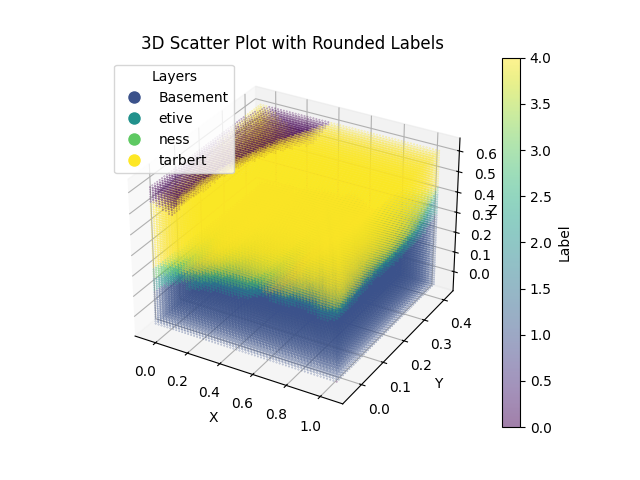
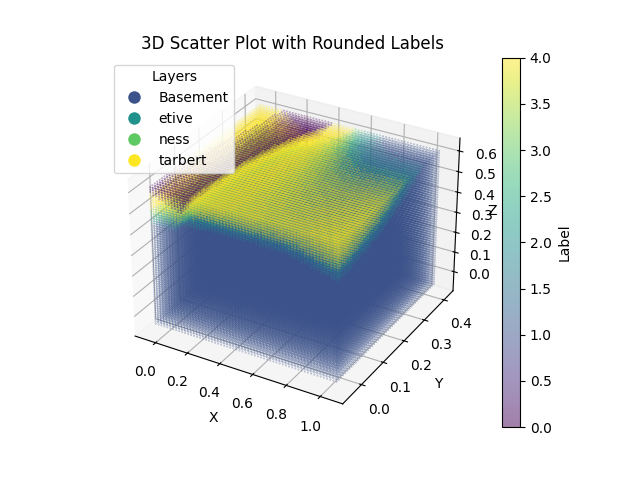
corrected_scalar_contours

Changed region(s): [[0.2188, 0.2188, 0.6875, 0.6562]]

diff --git a/Shubham Master's thesis/4- New blockwise fault/video_tutorial_model_2_faults.py b/Shubham Master's thesis/4- New blockwise fault/video_tutorial_model_2_faults.py
@@ -4,7 +4,7 @@ import copy
 import matplotlib.pyplot as plt
 
 # Import Gempy class from pyvista_new.py or withbasisfunction.py(with universal term)
-from pyvista_new import Gempy
+from withbasisfunction import Gempy
 
 class GempyMultiFaultModel(Gempy):
     """
@@ -221,6 +221,34 @@ class GempyMultiFaultModel(Gempy):
             if not block_outputs:
                 raise ValueError("No valid structural blocks were computed!")
 
+
+            ##########
+            ############### SCALAR FIELD NORMALIZATION
+            
+            # Pick the first computed block as the "reference/master" block
+            template_sig = list(block_outputs.keys())[0]
+            master_ref_mean = torch.mean(block_outputs[template_sig]['scalar_ref_points'])
+
+            # print(f"\n--- Normalizing {len(block_outputs)} Blocks to Master/reference {template_sig} ---")
+            
+            # Iterate through ALL blocks and shift them to match the Master
+            for sig, out_dict in block_outputs.items():
+                if sig != template_sig: # Skip the master block itself
+                    # Find this specific block's average scaa=lar field value
+                    block_ref_mean = torch.mean(out_dict['scalar_ref_points'])
+                    
+                    # Calculate the difference in the values
+                    scalar_shift = master_ref_mean - block_ref_mean
+                    
+                    # Apply the shift to the block's grid and reference points
+                    out_dict['Regular'] = out_dict['Regular'] + scalar_shift
+                    out_dict['scalar_ref_points'] = out_dict['scalar_ref_points'] + scalar_shift
+                    
+                    # print(f"   -> Block {sig} shifted by: {scalar_shift.item()")
+
+            ###########
+
+
             # 3. Stitch blocks together based on Boolean Signatures
             final_out, final_res = {}, {}
             template_sig = list(block_outputs.keys())[0]
@@ -319,7 +347,7 @@ if __name__ == "__main__":
                                 [0.800, 0.000, 0.600, 0.05]
                                 ])
     }
-    fault0_trans = torch.diag(torch.tensor([1, 1, 1, 0.05], dtype=torch.float32))
+    fault0_trans = torch.diag(torch.tensor([1, 1, 1, 0.00], dtype=torch.float32))
 
     # Combine both faults into the dictionary
     faults_dict = {
@@ -380,7 +408,9 @@ if __name__ == "__main__":
             [0.0, 1000.0, 260.0, 0.0],
 
             # --- ADDED: Middle Block Orientation (2000 < X < 2750) ---
-            [2200.0, 500.0, 460.0, 0.0],
+            [2200.0, 500.0, 460.0, 0.0], ### This point was given bad results
+
+            # [2300.0, 500.0, 460.0, 0.0],
             
             # --- ADDED: 3rd Block Orientation (X > 2750) ---
             [2950.0, 500.0, 460.0, 0.0]
@@ -393,15 +423,15 @@ if __name__ == "__main__":
             [-0.423, -0.000, 0.906, 0.0],
             [-0.423, -0.000, 0.906, 0.0],
 
-            [-0.423, -0.000, 0.906, -0.07],
+            [-0.423, -0.000, 0.906, -0.007],
 
-            [-0.423, -0.000, 0.906, -0.20]
+            [-0.423, -0.000, 0.906, -0.005]
 
 
         ])
     }
     
-    struct_transformation_matrix = torch.diag(torch.tensor([1, 1, 1, 0.05], dtype=torch.float32))
+    struct_transformation_matrix = torch.diag(torch.tensor([1, 1, 1, 0.00], dtype=torch.float32))
 
     struct_input = {
         'sp_coord': struct_interface_data, 
@@ -420,10 +450,10 @@ if __name__ == "__main__":
     #########################################################################
 
     #### FOR 2D matplotlib #####
-    # import time
-    # for t in [-0.5, 0, 0.5, .75, 1.0, 1.25, 1.5, 1.75, 2.0, 2.25, 2.5, 3,3.5, 4, 4.5]:
-    #     model.plot_data_section(section={2:0.5, 4:t}, plot_scalar_field = True, plot_input_data=True)
-    #     time.sleep(1)
+    import time
+    for t in [-0.5, 0, 0.5, .75, 1.0, 1.25, 1.5, 1.75, 2.0, 2.25, 2.5, 3,3.5, 4, 4.5]:
+        model.plot_data_section(section={2:0.5, 4:t}, plot_scalar_field = True, plot_input_data=True)
+        time.sleep(1)
 
 
     #### FOR 3D matplotlib #####
@@ -445,4 +475,4 @@ if __name__ == "__main__":
     # 
 
     # --- PLOTTING ---
-    model.plot_interactive_section(plot_input_data=True, only_surface_mode= False)
+    # model.plot_interactive_section(plot_input_data=True, only_surface_mode= False)

diff --git a/Shubham Master's thesis/4- New blockwise fault/new_gulfaks_data.py b/Shubham Master's thesis/4- New blockwise fault/new_gulfaks_data.py
@@ -198,31 +198,31 @@ class GempyMultiFaultModel(Gempy):
                 raise ValueError("No valid structural blocks were computed!")
 
 
-            # # ===================================================================
-            # # NEW: N-BLOCK SCALAR FIELD NORMALIZATION
-            # # ===================================================================
-            # # 1. Pick the first computed block as the "Master" baseline
-            # template_sig = list(block_outputs.keys())[0]
-            # master_ref_mean = torch.mean(block_outputs[template_sig]['scalar_ref_points'])
-
-            # print(f"\n--- Normalizing {len(block_outputs)} Blocks to Master {template_sig} ---")
+            ##########
+            ############### SCALAR FIELD NORMALIZATION
             
-            # # 2. Iterate through ALL blocks and shift them to match the Master
-            # for sig, out_dict in block_outputs.items():
-            #     if sig != template_sig: # Skip the master block itself
-            #         # Find this specific block's mathematical baseline
-            #         block_ref_mean = torch.mean(out_dict['scalar_ref_points'])
-                    
-            #         # Calculate the drift
-            #         scalar_shift = master_ref_mean - block_ref_mean
-                    
-            #         # Apply the shift to the block's grid and reference points
-            #         out_dict['Regular'] = out_dict['Regular'] + scalar_shift
-            #         out_dict['scalar_ref_points'] = out_dict['scalar_ref_points'] + scalar_shift
-                    
-            #         print(f"   -> Block {sig} shifted by: {scalar_shift.item():.4f}")
-            # # ===================================================================
+            # Pick the first computed block as the "reference/master" block
+            template_sig = list(block_outputs.keys())[0]
+            master_ref_mean = torch.mean(block_outputs[template_sig]['scalar_ref_points'])
 
+            # print(f"\n--- Normalizing {len(block_outputs)} Blocks to Master/reference {template_sig} ---")
+            
+            # Iterate through ALL blocks and shift them to match the Master
+            for sig, out_dict in block_outputs.items():
+                if sig != template_sig: # Skip the master block itself
+                    # Find this specific block's average scaa=lar field value
+                    block_ref_mean = torch.mean(out_dict['scalar_ref_points'])
+                    
+                    # Calculate the difference in the values
+                    scalar_shift = master_ref_mean - block_ref_mean
+                    
+                    # Apply the shift to the block's grid and reference points
+                    out_dict['Regular'] = out_dict['Regular'] + scalar_shift
+                    out_dict['scalar_ref_points'] = out_dict['scalar_ref_points'] + scalar_shift
+                    
+                    # print(f"   -> Block {sig} shifted by: {scalar_shift.item()")
+
+            ###########
 
             # 3. Stitch blocks together based on Boolean Signatures
             final_out, final_res = {}, {}
@@ -680,10 +680,9 @@ if __name__ == "__main__":
     # 
 
     # --- PLOTTING ---
-    # model.plot_interactive_section(plot_input_data=True, only_surface_mode= False)
+    model.plot_interactive_section(plot_input_data=True, only_surface_mode= False)
 
 
-    # Use your new Multi-Fault 3D Plotter!
-    # model.plot_3d_with_faults(t_index=0.0)
+    # New Multi-Fault 3D Plot - uncomment below
 
     # model.plot_3d_with_faults(t_min=-0.5, t_max=4.5, t_initial=0.0)

diff --git a/Shubham Master's thesis/4- New blockwise fault/blockwise_multifault.py b/Shubham Master's thesis/4- New blockwise fault/blockwise_multifault.py
@@ -270,30 +270,31 @@ class GempyMultiFaultModel(Gempy):
                 raise ValueError("No valid structural blocks were computed!")
 
 
-            # ===================================================================
-            # NEW: N-BLOCK SCALAR FIELD NORMALIZATION
-            # ===================================================================
-            # # 1. Pick the first computed block as the "Master" baseline
-            # template_sig = list(block_outputs.keys())[0]
-            # master_ref_mean = torch.mean(block_outputs[template_sig]['scalar_ref_points'])
-
-            # print(f"\n--- Normalizing {len(block_outputs)} Blocks to Master {template_sig} ---")
+            ##########
+            ############### SCALAR FIELD NORMALIZATION
             
-            # # 2. Iterate through ALL blocks and shift them to match the Master
-            # for sig, out_dict in block_outputs.items():
-            #     if sig != template_sig: # Skip the master block itself
-            #         # Find this specific block's mathematical baseline
-            #         block_ref_mean = torch.mean(out_dict['scalar_ref_points'])
+            # Pick the first computed block as the "reference/master" block
+            template_sig = list(block_outputs.keys())[0]
+            master_ref_mean = torch.mean(block_outputs[template_sig]['scalar_ref_points'])
+
+            # print(f"\n--- Normalizing {len(block_outputs)} Blocks to Master/reference {template_sig} ---")
+            
+            # Iterate through ALL blocks and shift them to match the Master
+            for sig, out_dict in block_outputs.items():
+                if sig != template_sig: # Skip the master block itself
+                    # Find this specific block's average scaa=lar field value
+                    block_ref_mean = torch.mean(out_dict['scalar_ref_points'])
                     
-            #         # Calculate the drift
-            #         scalar_shift = master_ref_mean - block_ref_mean
+                    # Calculate the difference in the values
+                    scalar_shift = master_ref_mean - block_ref_mean
                     
-            #         # Apply the shift to the block's grid and reference points
-            #         out_dict['Regular'] = out_dict['Regular'] + scalar_shift
-            #         out_dict['scalar_ref_points'] = out_dict['scalar_ref_points'] + scalar_shift
+                    # Apply the shift to the block's grid and reference points
+                    out_dict['Regular'] = out_dict['Regular'] + scalar_shift
+                    out_dict['scalar_ref_points'] = out_dict['scalar_ref_points'] + scalar_shift
                     
-            #         print(f"   -> Block {sig} shifted by: {scalar_shift.item():.4f}")
-            # # ===================================================================
+                    # print(f"   -> Block {sig} shifted by: {scalar_shift.item()")
+
+            ###########
 
 
 

diff --git a/Shubham Master's thesis/4- New blockwise fault/Gulfaks_4D.py b/Shubham Master's thesis/4- New blockwise fault/Gulfaks_4D.py
@@ -195,6 +195,34 @@ class GempyMultiFaultModel(Gempy):
             if not block_outputs:
                 raise ValueError("No valid structural blocks were computed!")
 
+
+            ##########
+            ############### SCALAR FIELD NORMALIZATION
+            
+            # Pick the first computed block as the "reference/master" block
+            template_sig = list(block_outputs.keys())[0]
+            master_ref_mean = torch.mean(block_outputs[template_sig]['scalar_ref_points'])
+
+            # print(f"\n--- Normalizing {len(block_outputs)} Blocks to Master/reference {template_sig} ---")
+            
+            # Iterate through ALL blocks and shift them to match the Master
+            for sig, out_dict in block_outputs.items():
+                if sig != template_sig: # Skip the master block itself
+                    # Find this specific block's average scaa=lar field value
+                    block_ref_mean = torch.mean(out_dict['scalar_ref_points'])
+                    
+                    # Calculate the difference in the values
+                    scalar_shift = master_ref_mean - block_ref_mean
+                    
+                    # Apply the shift to the block's grid and reference points
+                    out_dict['Regular'] = out_dict['Regular'] + scalar_shift
+                    out_dict['scalar_ref_points'] = out_dict['scalar_ref_points'] + scalar_shift
+                    
+                    # print(f"   -> Block {sig} shifted by: {scalar_shift.item()")
+
+            ###########
+
+
             # 3. Stitch blocks together based on Boolean Signatures
             final_out, final_res = {}, {}
             template_sig = list(block_outputs.keys())[0]
@@ -1085,17 +1113,17 @@ if __name__ == "__main__":
     #########################################################################
 
     #### FOR 2D matplotlib #####
-    # import time
-    # for t in [-0.5, 0, 0.5, .75, 1.0, 1.25, 1.5, 1.75, 2.0]:
-    #     model.plot_data_section(section={2:0.5, 4:t}, plot_scalar_field = True, plot_input_data=True)
-    #     time.sleep(1)
+    import time
+    for t in [-0.5, 0, 0.5, .75, 1.0, 1.25, 1.5, 1.75, 2.0]:
+        model.plot_data_section(section={2:0.5, 4:t}, plot_scalar_field = True, plot_input_data=False)
+        time.sleep(1)
 
 
     #### FOR 3D matplotlib #####
-    import time
-    for t in [-0.5, 0, 0.5, .75, 1.0, 1.25, 1.5, 1.75, 2.0, 2.25, 2.5, 3, 3.5, 4,4.5]:
-        model.plot_data_section(section={4:t}, plot_scalar_field = True, plot_input_data=False)
-        time.sleep(1)
+    # import time
+    # for t in [-0.5, 0, 0.5, .75, 1.0, 1.25, 1.5, 1.75, 2.0, 2.25, 2.5, 3, 3.5, 4,4.5]:
+    #     model.plot_data_section(section={4:t}, plot_scalar_field = True, plot_input_data=False)
+    #     time.sleep(1)
 
 
     #############################################################################################

diff --git a/Shubham Master's thesis/4- New blockwise fault/blockwise_singlefault.py b/Shubham Master's thesis/4- New blockwise fault/blockwise_singlefault.py
@@ -254,23 +254,22 @@ class GempyFaultModel(Gempy):
                 struct_out_fw, struct_res_fw = super().Solution_grid(grid_coord, section_plot=True, recompute_weights=False)
 
 
-            # # ===================================================================
-            # # NEW: SCALAR FIELD NORMALIZATION (Aligning the two blocks)
-            # # ===================================================================
-            # if struct_out_hw is not None and struct_out_fw is not None:
-            #     # 1. Find the average scalar value of the geological interfaces in both blocks
-            #     hw_ref_mean = torch.mean(struct_out_hw['scalar_ref_points'])
-            #     fw_ref_mean = torch.mean(struct_out_fw['scalar_ref_points'])
+            ###########
+            #### SCALAR FIELD NORMALIZATION (Aligning the two blocks)
+        
+            if struct_out_hw is not None and struct_out_fw is not None:
+                # Calculating average scalar value of the geological interfaces in both blocks
+                hw_ref_mean = torch.mean(struct_out_hw['scalar_ref_points'])
+                fw_ref_mean = torch.mean(struct_out_fw['scalar_ref_points'])
                 
-            #     # 2. Calculate the difference (the mathematical drift between the two solvers)
-            #     scalar_shift = hw_ref_mean - fw_ref_mean
+                # Calculate the difference between their averages
+                scalar_shift = hw_ref_mean - fw_ref_mean
                 
-            #     # 3. Apply this shift to the entire Footwall scalar field and its reference points
-            #     struct_out_fw['Regular'] = struct_out_fw['Regular'] + scalar_shift
-            #     struct_out_fw['scalar_ref_points'] = struct_out_fw['scalar_ref_points'] + scalar_shift
+                # Apply this shift to the entire Footwall scalar field and its reference points
+                struct_out_fw['Regular'] = struct_out_fw['Regular'] + scalar_shift
+                struct_out_fw['scalar_ref_points'] = struct_out_fw['scalar_ref_points'] + scalar_shift
                 
-            #     print(f"   -> Normalizing Footwall by shifting scalar field by: {scalar_shift.item():.4f}")
-                
+                # print(f"Normalizing Footwall by shifting scalar field by: {scalar_shift.item()}")
                 
             # IMPORTANT: Stitch Outputs based on Fault Mask
             final_out = {}

diff --git a/Shubham Master's thesis/4- New blockwise fault/inlclined_fault_model.py b/Shubham Master's thesis/4- New blockwise fault/inlclined_fault_model.py
@@ -253,22 +253,22 @@ class GempyFaultModel(Gempy):
                 # Calculating scalar field on whole grid using foot wall model weights
                 struct_out_fw, struct_res_fw = super().Solution_grid(grid_coord, section_plot=True, recompute_weights=False)
 
-            # ===================================================================
-            # NEW: SCALAR FIELD NORMALIZATION (Aligning the two blocks)
-            # ===================================================================
+            ###########
+            #### SCALAR FIELD NORMALIZATION (Aligning the two blocks)
+        
             if struct_out_hw is not None and struct_out_fw is not None:
-                # 1. Find the average scalar value of the geological interfaces in both blocks
+                # Calculating average scalar value of the geological interfaces in both blocks
                 hw_ref_mean = torch.mean(struct_out_hw['scalar_ref_points'])
                 fw_ref_mean = torch.mean(struct_out_fw['scalar_ref_points'])
                 
-                # 2. Calculate the difference (the mathematical drift between the two solvers)
+                # Calculate the difference between their averages
                 scalar_shift = hw_ref_mean - fw_ref_mean
                 
-                # 3. Apply this shift to the entire Footwall scalar field and its reference points
+                # Apply this shift to the entire Footwall scalar field and its reference points
                 struct_out_fw['Regular'] = struct_out_fw['Regular'] + scalar_shift
                 struct_out_fw['scalar_ref_points'] = struct_out_fw['scalar_ref_points'] + scalar_shift
                 
-                print(f"   -> Normalizing Footwall by shifting scalar field by: {scalar_shift.item():.4f}")
+                # print(f"Normalizing Footwall by shifting scalar field by: {scalar_shift.item()}")
                 
             # IMPORTANT: Stitch Outputs based on Fault Mask
             final_out = {}
